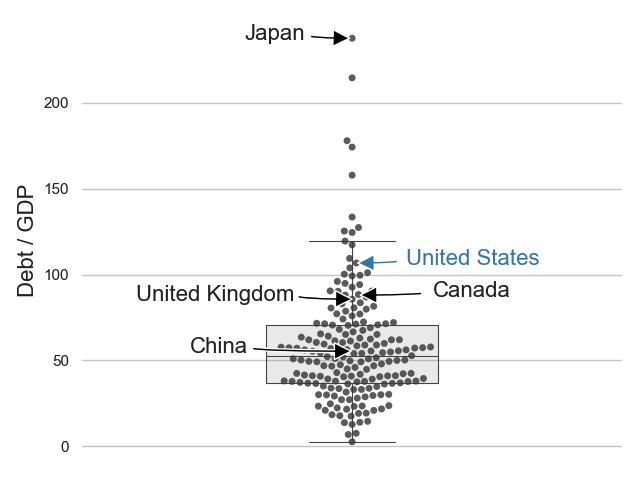
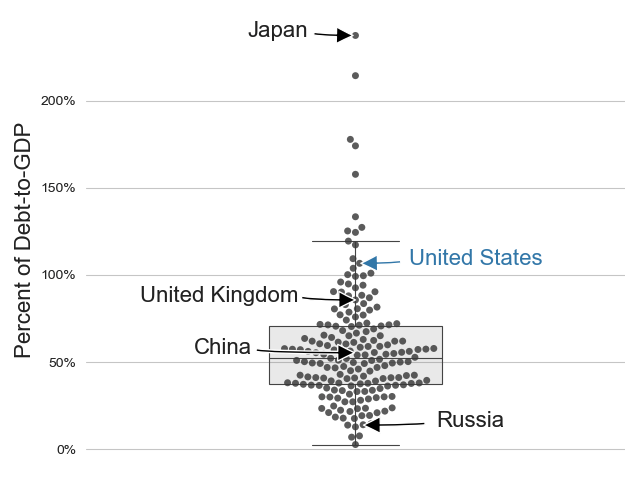
adding percent to debt-to-gdo plots. Final copy editing.

diff --git a/viz-the-debt.html b/viz-the-debt.html
@@ -61,7 +61,7 @@
                 <h3 class="text-left ">
                   Critiquing and Redesigning <i>The Visual Capitalist's</i> World Debt Trapezoid Chart
                 </h3>
-                <p>Although an aesthetically interesting geometric design, it doesn't tell us much about world debt.</p>
+                <h5 class="text-muted">Although an aesthetically interesting geometric design, it doesn't tell us much about world debt.</h5>
                 <button type="button" class="btn btn-light"><a href="#redesign">skip to redesign</a></button>
 
                 <img src="assets/img/world-debt-2019.png" alt="basic word cloud" class="img-fluid pt-5">
@@ -78,7 +78,7 @@
                 <h4 class="text-left pt-2 text-muted">
                   Pie Charts
                 </h4>
-                <p>Data visualization practitioners discourage pie charts because it is difficult to visually compare the volumes of different slices of pie.
+                <p>Data visualization designers discourage pie charts because it is difficult to visually compare the volumes of different slices of pie.
                    For example, it can be difficult to discern a slice that accounts for 30% of the pie from a slice comprises 25%.
                 </p>
                 <p>
@@ -96,12 +96,12 @@
                 <h4 class="text-left pt-2 text-muted">
                   Color
                 </h4>
-                <p>When using a color scale to represent a range of values, it is recommended to choose a single hue. A popular choice is the color red.
-                  Light-reds representing low values and darker-reds representing higher values.
+                <p>When using a color-ramp to represent a range of values, it is recommended to choose a single hue. A popular choice is the color red.
+                  Lighter-reds representing lower values and darker-reds representing higher values.
                 </p>
                 <p>
                   In the Visual Capitalist's graphic, I can discern three different colors: yellow, purple, and orange.
-                  Yellow does not intrinsically represent a higher value than purple. Therefore, the addition of color to this
+                  Yellow does not intrinsically represent a higher value than purple. The addition of color to this
                   graphic only adds to the confusion created by the trapezoids.
                 </p>
                 <h4 class="text-left pt-2 text-muted">
@@ -134,7 +134,8 @@
                     <footer class="blockquote-footer pl-3">Edward R. Tufte in <cite title="Source Title">Envisioning Information</cite></footer>
                   </div>
                 </blockquote>
-                <p class="pt-2">Inspired by Tufte, I use three bar charts to compare the United States' debt, gpd, and debt-to-gdp ratio to the top twenty-five world economies.</p>
+                <p class="pt-2">Inspired by Tufte, I use three bar charts to compare the United States' debt, gpd, and debt-to-gdp ratio to the top twenty-five world economies.
+                Following, I use a beeswarm plot to compare every country's dept-to-gdp ratio.</p>
               </div>
             </div>
             <div class="row mt-4 mb-3">
@@ -163,7 +164,7 @@
                 <h4 class="text-left text-muted pl-1">
                   The U.S. Does Not Have The Greatest <b>Debt-to-GDP</b> Ratio
                 </h4>
-                <img src="assets/img/world-debt-to-gdp-bar-chart.png" alt="basic word cloud" class="img-fluid pt-0">
+                <img src="assets/img/debt-to-gdp-bar-chart.png" alt="basic word cloud" class="img-fluid pt-0">
                 <a class="" style="float:right" data-toggle="tooltip" data-placement="bottom" title="Debt Data Source (divided by) GDP Data Source">>> data</a>
               </div>
           </div>
